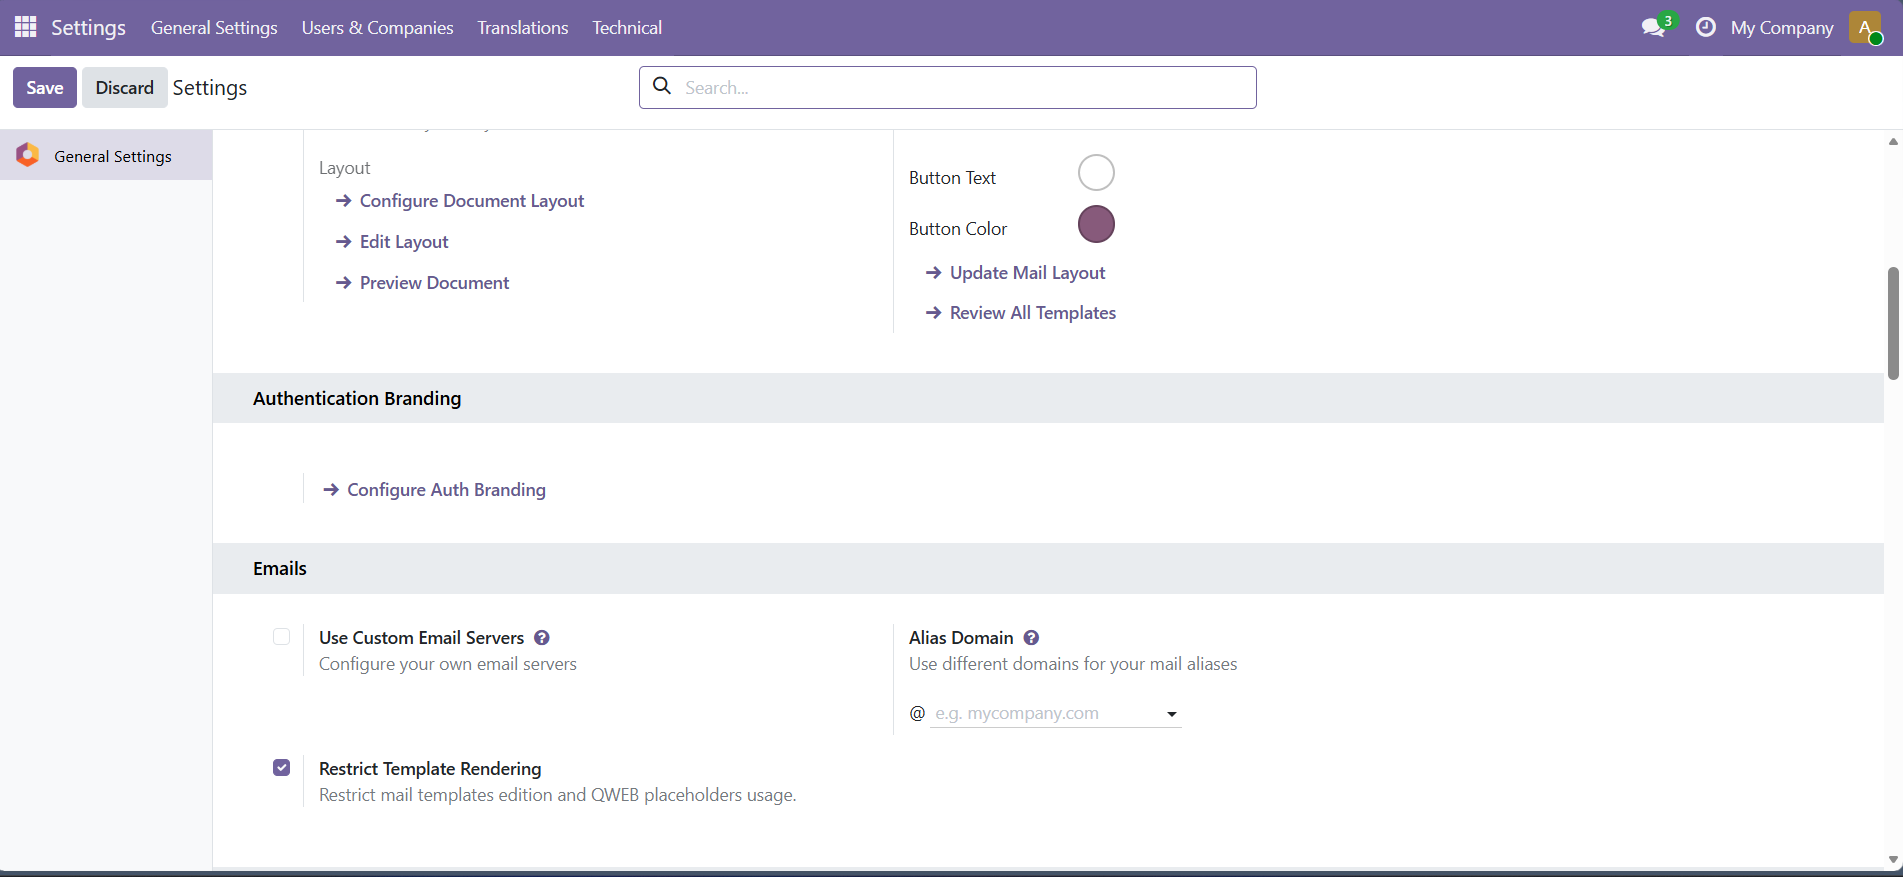
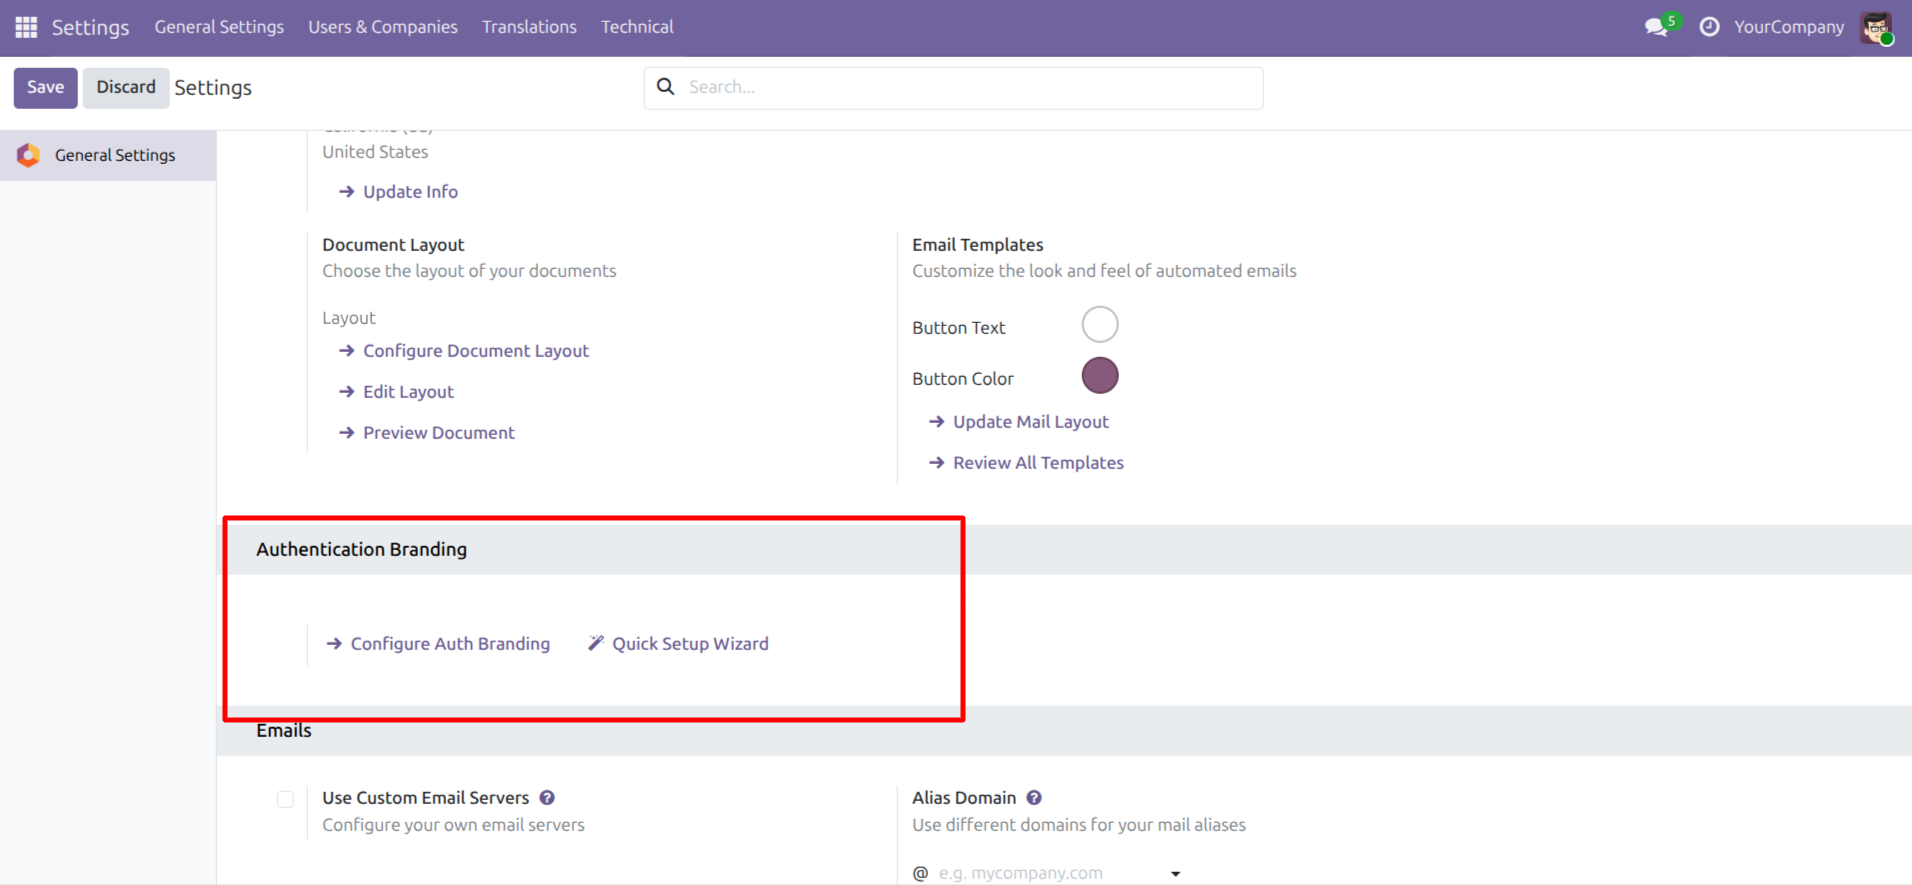
docs(auth_branding): update README and replace screenshots

diff --git a/README.md b/README.md
@@ -210,20 +210,6 @@ Restart Odoo after the upgrade and refresh browser assets.
 
 Custom CSS is intended for local selectors and declarations. Always inspect it in Draft mode before publishing.
 
-## 🔧 Technical overview
-
-| Item | Details |
-| --- | --- |
-| Odoo version | 19.0 |
-| Module version | 19.0.3.0.0 |
-| Dependencies | `web`, `auth_signup`, `base_setup` |
-| License | LGPL-3 |
-| Backend | Odoo ORM models, HTTP controllers, record rules, transient wizards, scheduled action |
-| Frontend | Owl components, Odoo registries/services, QWeb templates, responsive CSS |
-| Tests | Python transaction/HTTP tests and Odoo 19 HOOT JavaScript tests |
-| Status | Beta—validate in a staging database before production rollout |
-
-Pillow is used for logo palette extraction and is included in standard Odoo environments.
 
 ## 🧪 Development and verification
 
